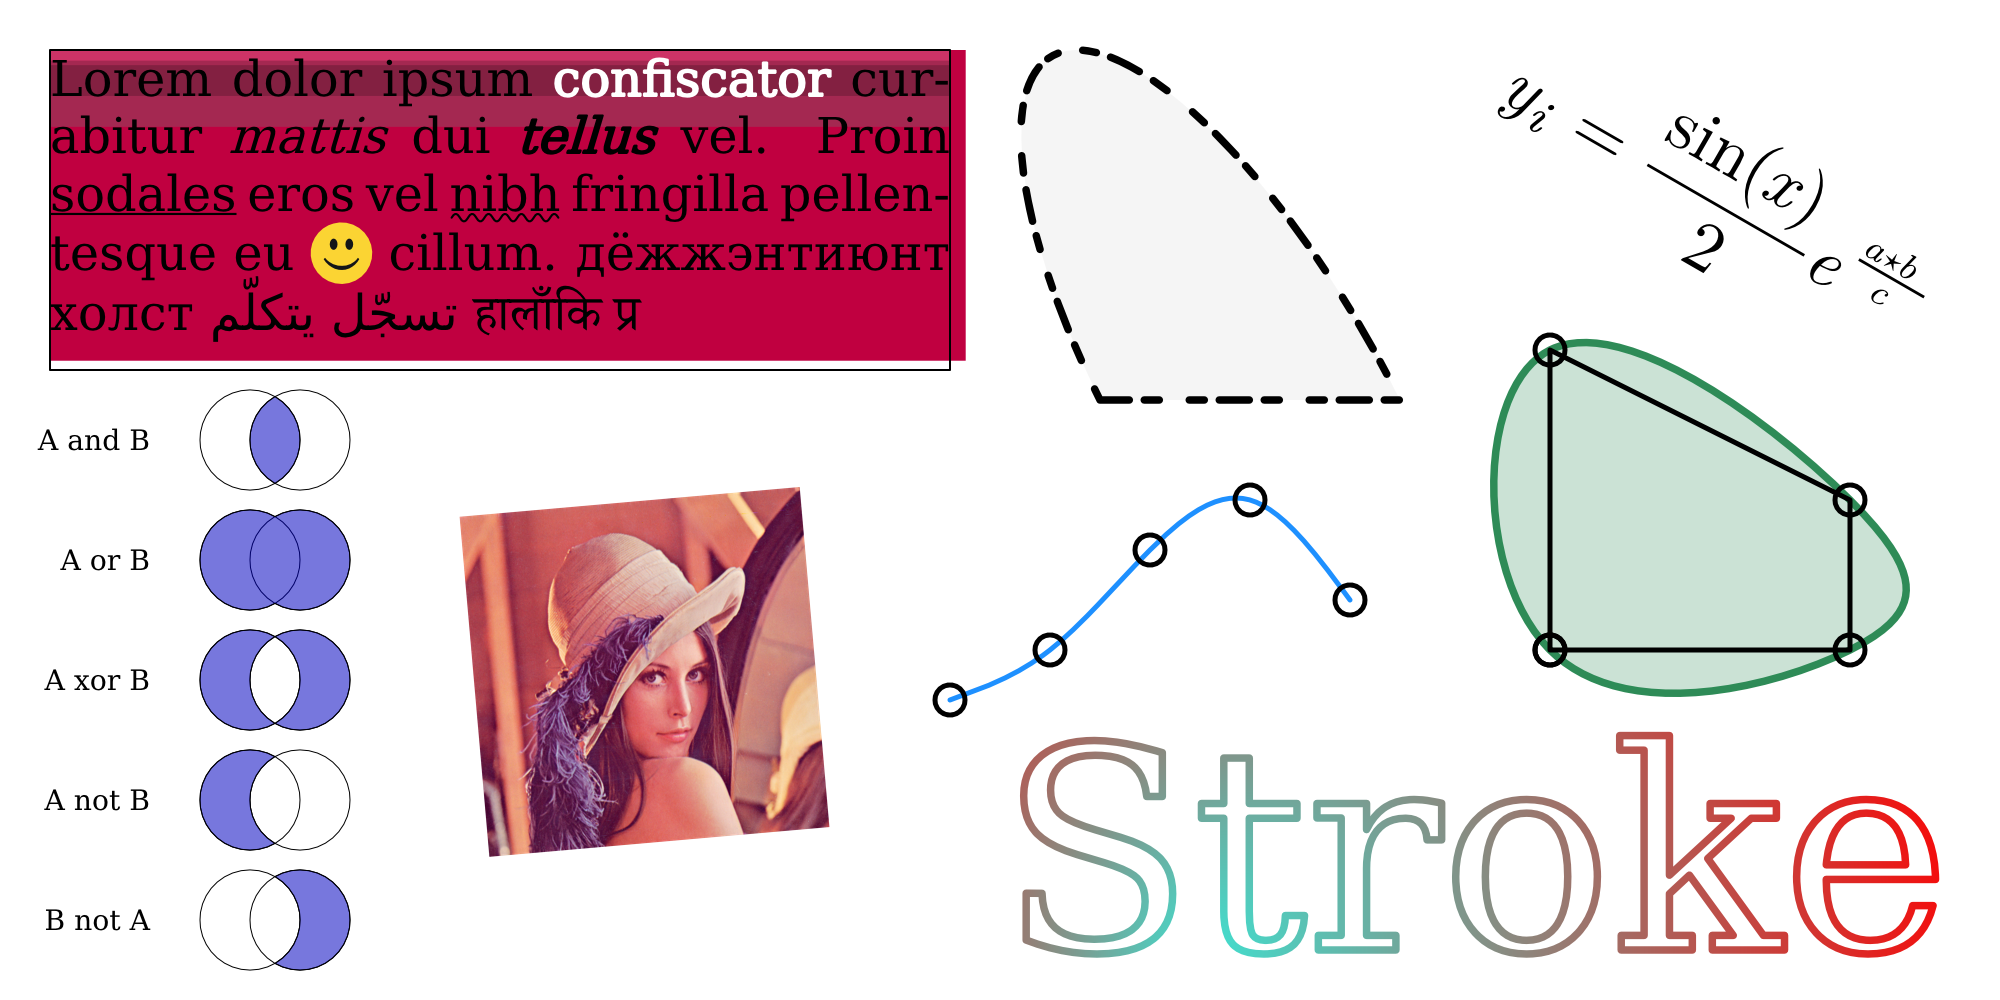
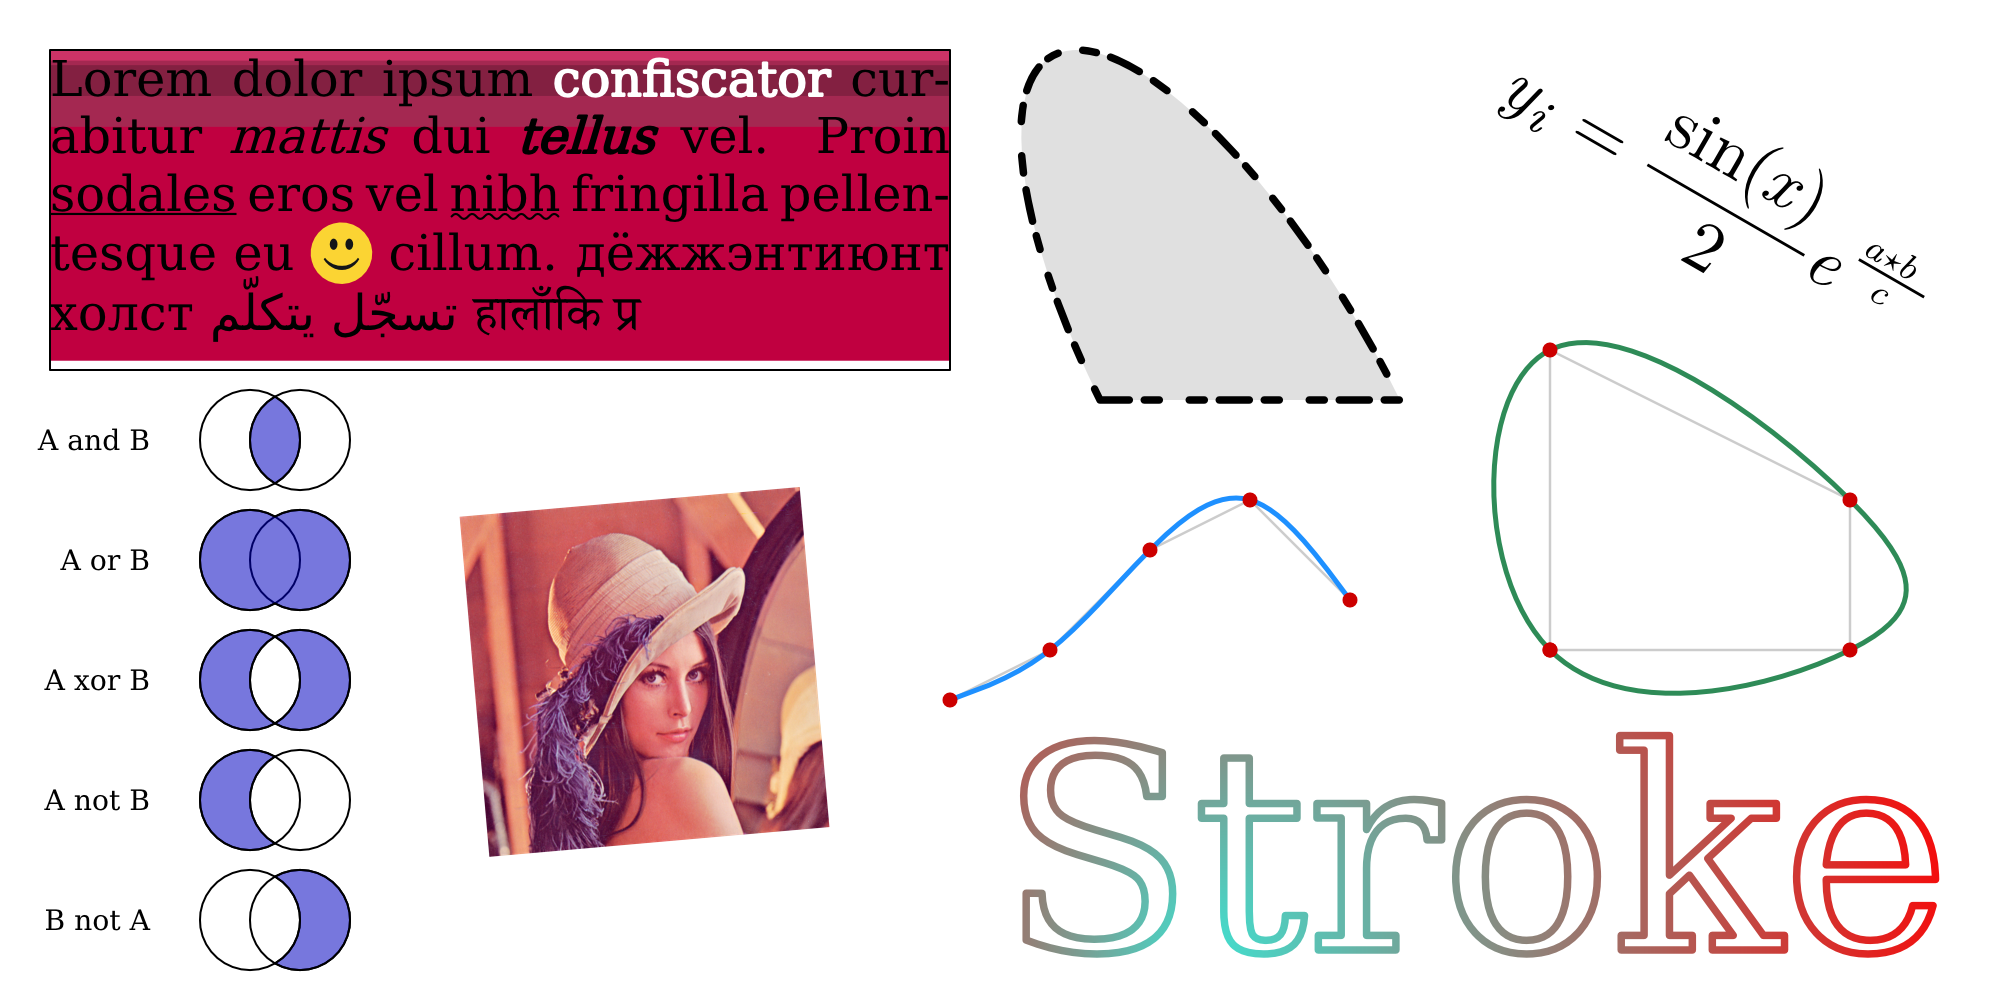
Fix text box width with whitespace at the end of lines; make font wave/sine underline less high; update preview

diff --git a/preview.go b/preview.go
@@ -156,7 +156,7 @@ func DrawPreviewWithAssets(ctx *Context, latin, arabic, devanagari, lenna []byte
 	if err != nil {
 		return err
 	}
-	ctx.SetFillColor(Whitesmoke)
+	ctx.SetFillColor(Hex("#e0e0e0"))
 	ctx.DrawPath(110, 60, ellipse)
 
 	ctx.SetFillColor(Transparent)
@@ -186,22 +186,26 @@ func DrawPreviewWithAssets(ctx *Context, latin, arabic, devanagari, lenna []byte
 	polyline.Add(30.0, 15.0)
 	polyline.Add(0.0, 30.0)
 	polyline.Add(0.0, 0.0)
-	ctx.SetFillColor(Seagreen)
-	col := Seagreen
-	col.R = byte(float64(col.R) * 0.25)
-	col.G = byte(float64(col.G) * 0.25)
-	col.B = byte(float64(col.B) * 0.25)
-	col.A = byte(float64(col.A) * 0.25)
-	ctx.SetFillColor(col)
-	ctx.SetStrokeColor(Seagreen)
-	ctx.DrawPath(155, 35, polyline.Smoothen())
 
 	ctx.SetFillColor(Transparent)
-	ctx.SetStrokeColor(Black)
-	ctx.SetStrokeWidth(0.5)
+	ctx.SetStrokeColor(Hex("#ccc"))
+	ctx.SetStrokeWidth(0.25)
 	ctx.DrawPath(155, 35, polyline.ToPath())
+
+	//col := Seagreen
+	//col.R = byte(float64(col.R) * 0.25)
+	//col.G = byte(float64(col.G) * 0.25)
+	//col.B = byte(float64(col.B) * 0.25)
+	//col.A = byte(float64(col.A) * 0.25)
+	//ctx.SetFillColor(col)
+	ctx.SetStrokeColor(Seagreen)
+	ctx.SetStrokeWidth(0.5)
+	ctx.DrawPath(155, 35, polyline.Smoothen())
+
+	ctx.SetFillColor(Hex("#c00"))
+	ctx.SetStrokeColor(Transparent)
 	for _, coord := range polyline.Coords() {
-		ctx.DrawPath(155, 35, Circle(1.5).Translate(coord.X, coord.Y))
+		ctx.DrawPath(155, 35, Circle(0.75).Translate(coord.X, coord.Y))
 	}
 
 	// Draw a open set of points being smoothed
@@ -211,11 +215,20 @@ func DrawPreviewWithAssets(ctx *Context, latin, arabic, devanagari, lenna []byte
 	polyline.Add(20.0, 15.0)
 	polyline.Add(30.0, 20.0)
 	polyline.Add(40.0, 10.0)
+
+	ctx.SetFillColor(Transparent)
+	ctx.SetStrokeColor(Hex("#ccc"))
+	ctx.SetStrokeWidth(0.25)
+	ctx.DrawPath(95, 30, polyline.ToPath())
+
 	ctx.SetStrokeColor(Dodgerblue)
+	ctx.SetStrokeWidth(0.5)
 	ctx.DrawPath(95, 30, polyline.Smoothen())
-	ctx.SetStrokeColor(Black)
+
+	ctx.SetFillColor(Hex("#c00"))
+	ctx.SetStrokeColor(Transparent)
 	for _, coord := range polyline.Coords() {
-		ctx.DrawPath(95, 30, Circle(1.5).Translate(coord.X, coord.Y))
+		ctx.DrawPath(95, 30, Circle(0.75).Translate(coord.X, coord.Y))
 	}
 
 	// Draw path boolean operations
@@ -225,7 +238,7 @@ func DrawPreviewWithAssets(ctx *Context, latin, arabic, devanagari, lenna []byte
 	b = b.Flatten(Tolerance)
 	ctx.SetFillColor(Transparent)
 	ctx.SetStrokeColor(Black)
-	ctx.SetStrokeWidth(0.1)
+	ctx.SetStrokeWidth(0.2)
 	face = fontLatin.Face(8.0)
 	titles := []string{"A and B", "A or B", "A xor B", "A not B", "B not A"}
 	for i := 0; i < 5; i++ {
@@ -235,8 +248,6 @@ func DrawPreviewWithAssets(ctx *Context, latin, arabic, devanagari, lenna []byte
 		ctx.DrawPath(25.0, y, b)
 	}
 	ctx.SetFillColor(Hex("#00C8"))
-	ctx.SetStrokeColor(Black)
-	ctx.SetStrokeWidth(0.1)
 	ctx.DrawPath(25.0, 56.0, a.And(b))
 	ctx.DrawPath(25.0, 44.0, a.Or(b))
 	ctx.DrawPath(25.0, 32.0, a.Xor(b))

diff --git a/text.go b/text.go
@@ -868,7 +868,13 @@ func (rt *RichText) ToText(width, height float64, halign, valign TextAlign, opts
 								glyphs[a+i], glyphs[b-1-i] = glyphs[b-1-i], glyphs[a+i]
 							}
 						}
-						width = run.Face.textWidth(glyphs[a:b])
+
+						// don't count whitespace at the end towards the width of the text span
+						b2 := b
+						for a < b2 && (text.IsSpace(glyphs[b2-1].Text) || text.IsNewline(glyphs[b2-1].Text) || text.IsParagraph(glyphs[b2-1].Text)) {
+							b2--
+						}
+						width = run.Face.textWidth(glyphs[a:b2])
 						t.fonts[run.Face.Font] = true
 					}
 

diff --git a/font.go b/font.go
@@ -986,7 +986,7 @@ func (wavyUnderline) Decorate(face *FontFace, w float64) *Path {
 
 	dx := 0.707 * r
 	w -= 2.0 * dx
-	dh := -face.Size * 0.15
+	dh := -face.Size * 0.10
 	d := 5.0 * r
 	n := int(0.5 + w/d)
 	if n == 0 {
@@ -1038,7 +1038,7 @@ func (sineUnderline) Decorate(face *FontFace, w float64) *Path {
 	d = (w - r) / float64(n)
 
 	dx := r
-	dh := -face.Size * 0.15
+	dh := -face.Size * 0.10
 	y += 0.5 * dh
 	p := &Path{}
 	p.MoveTo(dx, y)
